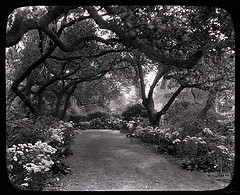
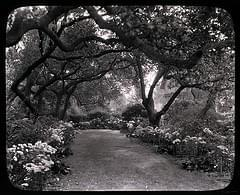
Update gulp image minification task

diff --git a/gulpfile.js b/gulpfile.js
@@ -7,15 +7,15 @@
 * Packages used
 *
 **/
-var gulp         = require('gulp');
-var sass         = require('gulp-sass');
-var prefix       = require('gulp-autoprefixer');
-var plumber      = require('gulp-plumber');
-var uglify       = require('gulp-uglifyjs');
-var jshint       = require('gulp-jshint');
-var rename       = require('gulp-rename');
-var imagemin     = require('gulp-imagemin');
-var pngquant     = require('imagemin-pngquant');
+var gulp            = require('gulp');
+var sass            = require('gulp-sass');
+var prefix          = require('gulp-autoprefixer');
+var plumber         = require('gulp-plumber');
+var uglify          = require('gulp-uglifyjs');
+var jshint          = require('gulp-jshint');
+var rename          = require('gulp-rename');
+var imagemin        = require('gulp-imagemin');
+var imageminMozjpeg = require('imagemin-mozjpeg');
 
 /**
 *
@@ -74,9 +74,11 @@ gulp.task('jslint', function() {
 gulp.task('images', function () {
   return gulp.src('images/*')
     .pipe(imagemin({
+      optimizationLevel: 7,
       progressive: true,
-      svgoPlugins: [{removeViewBox: false}],
-      use: [pngquant()]
+      interlaced: true,
+      svgoPlugins: [{removeViewBox: true}],
+      use: [imageminMozjpeg()]
     }))
     .pipe(gulp.dest('images'));
 });
